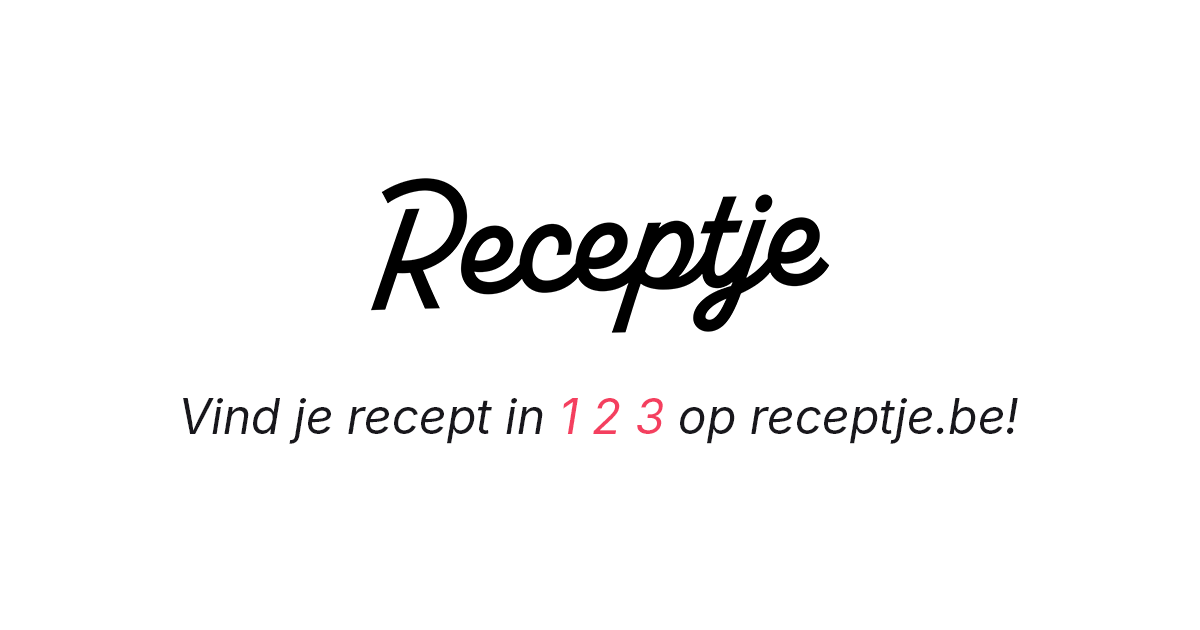
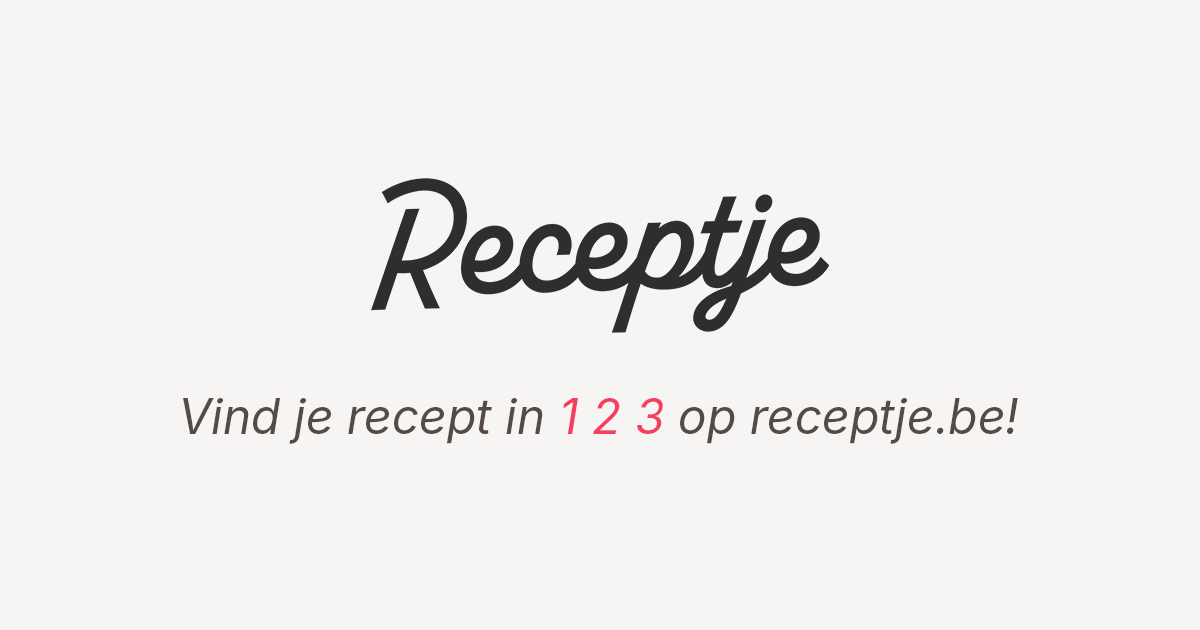
feat: tweak colors

Changed region(s): [[0.3083, 0.2714, 0.7092, 0.5429], [0.1542, 0.6333, 0.4625, 0.6937], [0.555, 0.6333, 0.8633, 0.6937]]

diff --git a/src/components/search-recipe.tsx b/src/components/search-recipe.tsx
@@ -21,7 +21,7 @@ export const SearchRecipe = () => {
         ref={inputRef}
         type="text"
         name="q"
-        className="border rounded-full flex-1 text-sm max-w-xl px-4 py-2 sm:px-6 sm:py-3"
+        className="border rounded-full flex-1 text-sm max-w-xl px-4 py-2 sm:px-6 sm:py-3 bg-white/50 placeholder:text-black/50"
         placeholder="Zoek een receptje"
         autoFocus
         tabIndex={1}
@@ -29,7 +29,7 @@ export const SearchRecipe = () => {
       />
       <button
         tabIndex={2}
-        className="bg-rose-500 hover:bg-rose-600 transition-colors text-white font-semibold text-sm rounded-full inline-block relative px-4 py-2 sm:px-6 sm:py-3"
+        className="bg-rose-500 hover:bg-rose-600 transition-colors text-tint font-semibold text-sm rounded-full inline-block relative px-4 py-2 sm:px-6 sm:py-3"
         type="submit">
         <span
           className={clsx({

diff --git a/tailwind.config.ts b/tailwind.config.ts
@@ -4,6 +4,9 @@ export default {
   content: ['./src/**/{**,.client,.server}/**/*.{js,jsx,ts,tsx}'],
   theme: {
     extend: {
+      colors: {
+        tint: '#F7F5F4',
+      },
       fontFamily: {
         sans: [
           'Inter',

diff --git a/src/tailwind.css b/src/tailwind.css
@@ -4,7 +4,7 @@
 
 html,
 body {
-  @apply bg-white;
+  @apply bg-tint;
   @apply min-h-full h-full;
 }
 
